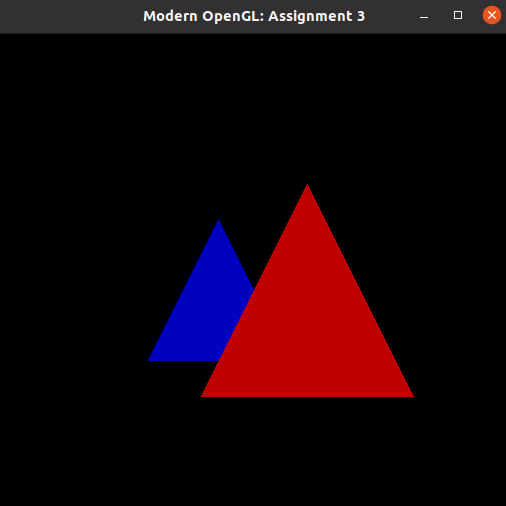
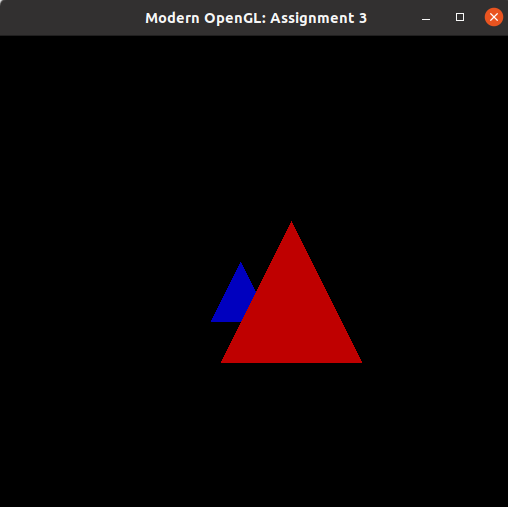
Atualizando exercicio 3 e 4 no readme

diff --git a/Atividade_03/README.md b/Atividade_03/README.md
@@ -42,7 +42,7 @@ Neste exercício foi demandado realizar uma translação no eixo x, na qual as c
 
 ## Exercício 3: Projeção Perspectiva
 
-Para este exercício foi requisitado alterar a matriz projeção (proj_array) baseada na matriz cedida no anunciado. Com isso, para que obtivéssemos o resultado conforme o solicitado foi alterado o valor do `d`, no qual `d = 0.5f`, e derivou-se a matriz projeção abaixo:  
+Para este exercício foi requisitado alterar a matriz projeção (proj_array) baseada na matriz cedida no anunciado. Com isso, para que obtivéssemos o resultado conforme o solicitado foi alterado o valor do `d`, no qual `d = 0.125f`, e derivou-se a matriz projeção abaixo:  
 
 ```C
     float proj_array[16] = {1.0f, 0.0f, 0.0f, 0.0f, 
@@ -62,13 +62,13 @@ Para este exercício foi requisitado alterar a matriz projeção (proj_array) ba
 
 ## Exercício 4:: Posição da Câmera
 
-Esse exercício solicita inicialmente que seja calculado os vetores do espaço da câmera ultilizando as seguintes informações: `Posição da câmera = (−1/10, 1/10,1/4), vetor Up da câmera = (0,1,0), ponto para o qual a câmera está apontando = (0,0,0)`. Além disso, como é necessário conhecer o vetor direção, para calculá-lo basta subtrair a posição da câmera com o ponto para onde a câmera aponta (look at). 
+Esse exercício solicita inicialmente que seja calculado os vetores do espaço da câmera ultilizando as seguintes informações: `Posição da câmera = (−1/10, 1/10,1/10), vetor Up da câmera = (0,1,0), ponto para o qual a câmera está apontando = (0,0,-1)`. Além disso, como é necessário conhecer o vetor direção, para calculá-lo basta subtrair a posição da câmera com o ponto para onde a câmera aponta (look at). 
 
 ```C
 
     //Informações
-    glm::vec3 cam_pos = glm::vec3(-1.0/10.0, 1.0/10.0, 1.0/4.0);//posição da câmera.
-    glm::vec3 cam_look_at = glm::vec3(0.0, 0.0, 0.0);//ponto para onde a câmera aponta.
+    glm::vec3 cam_pos = glm::vec3(-1.0/10.0, 1.0/10.0, 1.0/10.0);//posição da câmera.
+    glm::vec3 cam_look_at = glm::vec3(0.0, 0.0, -1.0);//ponto para onde a câmera aponta.
     glm::vec3 cam_up = glm::vec3(0.0, 1.0, 0.0);//Vetor Up
     glm::vec3 D = cam_pos - cam_look_at; //Vetor direção
 
